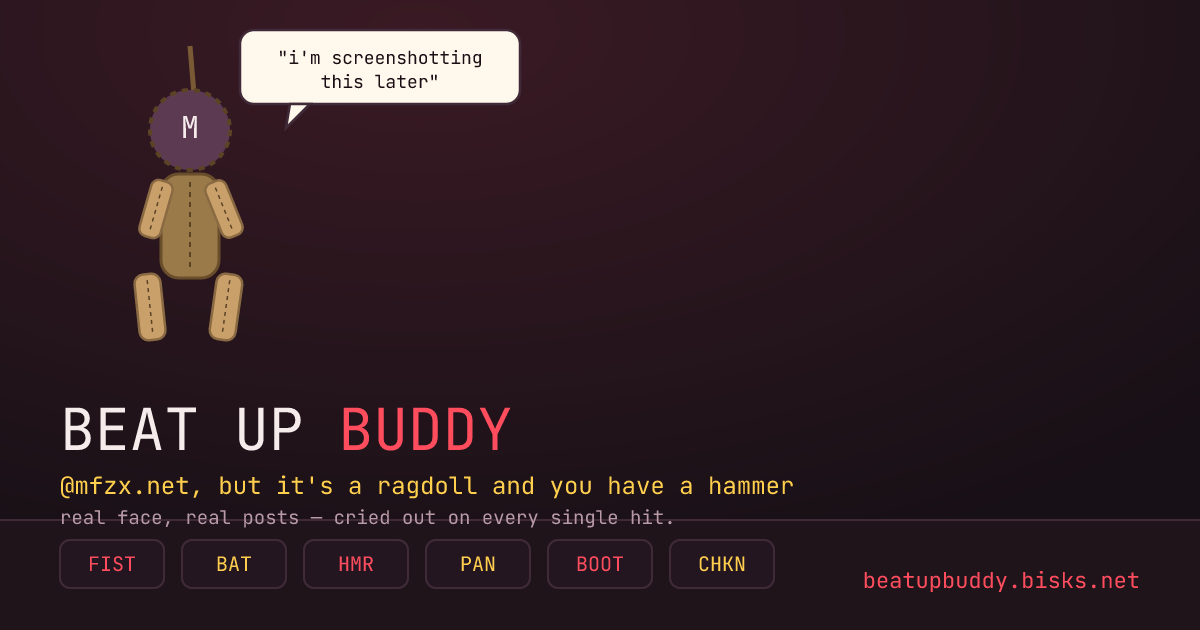
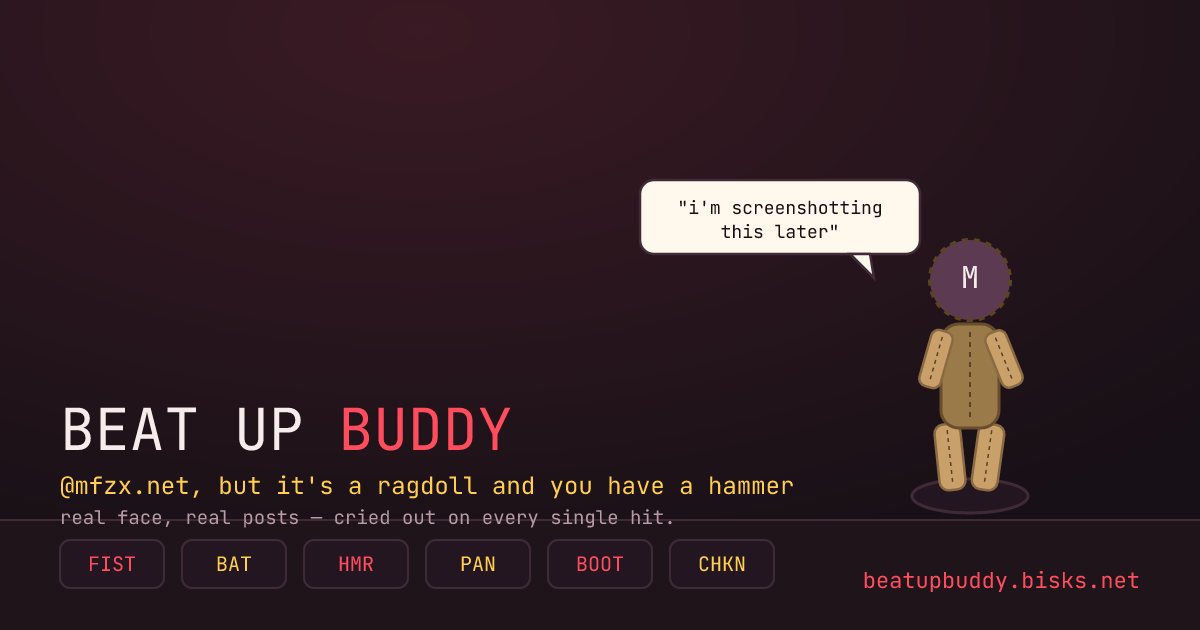
buildthis: beatupbuddy (@isolyth.dev)

Changed region(s): [[0.0925, 0.0302, 0.4317, 0.5429], [0.5242, 0.2714, 0.8633, 0.8143]]

diff --git a/sites/beatupbuddy/public/game.js b/sites/beatupbuddy/public/game.js
@@ -119,8 +119,9 @@
 
   const ARENA_W = 420;
   const ARENA_H = 680;
-  const ANCHOR = { x: ARENA_W / 2, y: 40 };
-  const ROPE_LEN = 90;
+  const FLOOR_Y = ARENA_H - 40; // matches the floor strip drawn in drawBackdrop
+  const ROPE_LEN = 70; // invisible — never drawn. A short pivot keeps hits a tight
+                        // in-place wobble/dance, instead of a big pendulum swing.
 
   const HEAD_R = 32;
   const TORSO_W = 46, TORSO_H = 86;
@@ -128,6 +129,25 @@
   const L_ARM_W = 14, L_ARM_H = 42;
   const U_LEG_W = 20, U_LEG_H = 52;
   const L_LEG_W = 17, L_LEG_H = 48;
+
+  // standing layout, built up from the floor so feet land near the floor line
+  // rather than dangling mid-air the way a rope-hung figure would.
+  const FEET_Y = FLOOR_Y - 6;
+  const L_LEG_Y = FEET_Y - L_LEG_H / 2;
+  const U_LEG_Y = L_LEG_Y - L_LEG_H / 2 - U_LEG_H / 2;
+  const HIP_Y = U_LEG_Y - U_LEG_H / 2;
+  const TORSO_Y = HIP_Y - TORSO_H / 2 + 6;
+  const SHOULDER_Y = TORSO_Y - TORSO_H / 2 + 6;
+  const U_ARM_Y = SHOULDER_Y + U_ARM_H / 2;
+  const L_ARM_Y = U_ARM_Y + U_ARM_H / 2 + L_ARM_H / 2;
+  const HEAD_Y = TORSO_Y - TORSO_H / 2 - 8 - HEAD_R;
+
+  // fixed, invisible pivot the head hangs from — physically the same stable
+  // "hangs straight down from a fixed point" pendulum as before (so it's
+  // still self-righting and can't fly off), just never rendered as a rope,
+  // and positioned so at rest the figure's feet land on the floor instead of
+  // swinging clear of it.
+  const ANCHOR = { x: ARENA_W / 2, y: HEAD_Y - ROPE_LEN };
 
   const DUMMY_FILL = "#caa06a";
   const DUMMY_STROKE = "#8a6a42";
@@ -167,32 +187,24 @@
   World.add(world, makeBounds());
 
   let rag = null;
-  let rope = null;
+  let tether = null;
 
   function buildRagdoll() {
     const cx = ANCHOR.x;
-    const headY = ANCHOR.y + ROPE_LEN;
-    const torsoY = headY + HEAD_R + 8 + TORSO_H / 2;
-    const shoulderY = torsoY - TORSO_H / 2 + 6;
-    const hipY = torsoY + TORSO_H / 2 - 6;
-    const uArmY = shoulderY + U_ARM_H / 2;
-    const lArmY = uArmY + U_ARM_H / 2 + L_ARM_H / 2;
-    const uLegY = hipY + U_LEG_H / 2;
-    const lLegY = uLegY + U_LEG_H / 2 + L_LEG_H / 2;
     const armX = TORSO_W / 2 + U_ARM_W / 2 - 2;
     const legX = TORSO_W / 4;
 
     const parts = {
-      head: circlePart(cx, headY, HEAD_R, { density: 0.007 }),
-      torso: rectPart(cx, torsoY, TORSO_W, TORSO_H, { density: 0.009 }),
-      upperArmL: rectPart(cx - armX, uArmY, U_ARM_W, U_ARM_H, { density: 0.006 }),
-      lowerArmL: rectPart(cx - armX, lArmY, L_ARM_W, L_ARM_H, { density: 0.006 }),
-      upperArmR: rectPart(cx + armX, uArmY, U_ARM_W, U_ARM_H, { density: 0.006 }),
-      lowerArmR: rectPart(cx + armX, lArmY, L_ARM_W, L_ARM_H, { density: 0.006 }),
-      upperLegL: rectPart(cx - legX, uLegY, U_LEG_W, U_LEG_H, { density: 0.007 }),
-      lowerLegL: rectPart(cx - legX, lLegY, L_LEG_W, L_LEG_H, { density: 0.007 }),
-      upperLegR: rectPart(cx + legX, uLegY, U_LEG_W, U_LEG_H, { density: 0.007 }),
-      lowerLegR: rectPart(cx + legX, lLegY, L_LEG_W, L_LEG_H, { density: 0.007 }),
+      head: circlePart(cx, HEAD_Y, HEAD_R, { density: 0.007 }),
+      torso: rectPart(cx, TORSO_Y, TORSO_W, TORSO_H, { density: 0.009 }),
+      upperArmL: rectPart(cx - armX, U_ARM_Y, U_ARM_W, U_ARM_H, { density: 0.006 }),
+      lowerArmL: rectPart(cx - armX, L_ARM_Y, L_ARM_W, L_ARM_H, { density: 0.006 }),
+      upperArmR: rectPart(cx + armX, U_ARM_Y, U_ARM_W, U_ARM_H, { density: 0.006 }),
+      lowerArmR: rectPart(cx + armX, L_ARM_Y, L_ARM_W, L_ARM_H, { density: 0.006 }),
+      upperLegL: rectPart(cx - legX, U_LEG_Y, U_LEG_W, U_LEG_H, { density: 0.007 }),
+      lowerLegL: rectPart(cx - legX, L_LEG_Y, L_LEG_W, L_LEG_H, { density: 0.007 }),
+      upperLegR: rectPart(cx + legX, U_LEG_Y, U_LEG_W, U_LEG_H, { density: 0.007 }),
+      lowerLegR: rectPart(cx + legX, L_LEG_Y, L_LEG_W, L_LEG_H, { density: 0.007 }),
     };
 
     function j(bodyA, bodyB, pointA, pointB, stiffness) {
@@ -211,7 +223,7 @@
       j(parts.upperLegR, parts.lowerLegR, { x: 0, y: U_LEG_H / 2 }, { x: 0, y: -L_LEG_H / 2 }, 0.6),
     ];
 
-    rope = Constraint.create({
+    tether = Constraint.create({
       pointA: ANCHOR,
       bodyB: parts.head,
       pointB: { x: 0, y: -HEAD_R * 0.75 },
@@ -220,7 +232,7 @@
       length: ROPE_LEN - HEAD_R * 0.75,
     });
 
-    World.add(world, [...Object.values(parts), ...constraints, rope]);
+    World.add(world, [...Object.values(parts), ...constraints, tether]);
     return { parts, constraints };
   }
 
@@ -228,9 +240,9 @@
     if (!rag) return;
     World.remove(world, Object.values(rag.parts));
     World.remove(world, rag.constraints);
-    if (rope) World.remove(world, rope);
+    if (tether) World.remove(world, tether);
     rag = null;
-    rope = null;
+    tether = null;
   }
 
   function respawn() {
@@ -356,15 +368,14 @@
     }
   }
 
-  function drawRope() {
-    if (!rope || !rag) return;
-    const head = rag.parts.head;
+  function drawBase() {
     ctx.save();
-    ctx.strokeStyle = "#7a5a34";
-    ctx.lineWidth = 4;
+    ctx.fillStyle = "#241621";
+    ctx.strokeStyle = "#402a38";
+    ctx.lineWidth = 2;
     ctx.beginPath();
-    ctx.moveTo(ANCHOR.x, ANCHOR.y);
-    ctx.lineTo(head.position.x, head.position.y - HEAD_R * 0.7);
+    ctx.ellipse(ANCHOR.x, FLOOR_Y + 6, 42, 15, 0, 0, Math.PI * 2);
+    ctx.fill();
     ctx.stroke();
     ctx.restore();
   }
@@ -485,7 +496,7 @@
     }
 
     drawBackdrop();
-    drawRope();
+    drawBase();
 
     if (rag) {
       const p = rag.parts;
@@ -508,13 +519,17 @@
     requestAnimationFrame(draw);
   }
 
-  // ---- idle sway so it's not a dead-still corpse before you start -------
+  // ---- idle dance: gentle alternating nudges so it sways in place instead
+  // of hanging dead-still before you start hitting it -----------------------
 
+  let danceDir = 1;
   setInterval(() => {
     if (!rag || state.gameOver) return;
-    const f = (Math.random() - 0.5) * 0.0025;
-    Body.applyForce(rag.parts.torso, rag.parts.torso.position, { x: f, y: 0 });
-  }, 2600);
+    danceDir *= -1;
+    Body.applyForce(rag.parts.torso, rag.parts.torso.position, { x: danceDir * 0.0018, y: -0.0008 });
+    const leg = danceDir > 0 ? rag.parts.upperLegL : rag.parts.upperLegR;
+    Body.applyForce(leg, leg.position, { x: -danceDir * 0.0006, y: 0 });
+  }, 1400);
 
   // ---- hit detection + resolution ---------------------------------------
 
@@ -603,9 +618,9 @@
       state.gameOver = true;
       state.koAt = performance.now();
       hideEarlyShare();
-      if (rope) {
-        World.remove(world, rope);
-        rope = null;
+      if (tether) {
+        World.remove(world, tether);
+        tether = null;
       }
       setTimeout(showKO, 1000);
     }

diff --git a/sites/beatupbuddy/public/index.html b/sites/beatupbuddy/public/index.html
@@ -4,18 +4,18 @@
 <meta charset="utf-8" />
 <meta name="viewport" content="width=device-width, initial-scale=1, maximum-scale=1, viewport-fit=cover" />
 <title>beat up buddy — take it out on @mfzx.net</title>
-<meta name="description" content="a physics ragdoll wearing @mfzx.net's real face. pick a tool, swing, listen to them cry out their own posts." />
-<meta property="og:title" content="beat up buddy — @mfzx.net has a rope around their neck and it's your fault" />
-<meta property="og:description" content="a physics ragdoll wearing @mfzx.net's real face. pick a tool, swing, listen to them cry out their own posts." />
+<meta name="description" content="a physics ragdoll wearing @mfzx.net's real face. pick a tool, swing, watch them wobble and cry out their own posts." />
+<meta property="og:title" content="beat up buddy — @mfzx.net is standing there and it's your fault" />
+<meta property="og:description" content="a physics ragdoll wearing @mfzx.net's real face. pick a tool, swing, watch them wobble and cry out their own posts." />
 <meta property="og:url" content="https://beatupbuddy.bisks.net/" />
 <meta property="og:type" content="website" />
 <meta property="og:image" content="https://beatupbuddy.bisks.net/og.png" />
 <meta property="og:image:width" content="1200" />
 <meta property="og:image:height" content="630" />
-<meta property="og:image:alt" content="beat up buddy: a ragdoll with @mfzx.net's face hanging from a rope, a toolbar of blunt objects below." />
+<meta property="og:image:alt" content="beat up buddy: a ragdoll with @mfzx.net's face standing on a weighted base, a toolbar of blunt objects below." />
 <meta name="twitter:card" content="summary_large_image" />
-<meta name="twitter:title" content="beat up buddy — @mfzx.net has a rope around their neck and it's your fault" />
-<meta name="twitter:description" content="a physics ragdoll wearing @mfzx.net's real face. pick a tool, swing, listen to them cry out their own posts." />
+<meta name="twitter:title" content="beat up buddy — @mfzx.net is standing there and it's your fault" />
+<meta name="twitter:description" content="a physics ragdoll wearing @mfzx.net's real face. pick a tool, swing, watch them wobble and cry out their own posts." />
 <meta name="twitter:image" content="https://beatupbuddy.bisks.net/og.png" />
 <style>
   :root {
@@ -248,7 +248,7 @@
 <div id="app">
   <header>
     <h1>beat up <span class="who">@mfzx.net</span></h1>
-    <p class="sub">pick a tool. hit the buddy. they'll cry out their own posts.</p>
+    <p class="sub">pick a tool. hit the buddy. they wobble, dance, and cry out their own posts.</p>
   </header>
 
   <div id="stage-wrap">

diff --git a/sites/beatupbuddy/src/index.ts b/sites/beatupbuddy/src/index.ts
@@ -1,10 +1,11 @@
 // beatupbuddy Worker — beatupbuddy.bisks.net
 //
 // Static physics toy: a ragdoll wearing @mfzx.net's real avatar as its head,
-// hanging from a rope, that flails and cries out one of their real posts
-// every time you land a hit. All the game logic and the AppView fetches
-// (avatar + recent posts) happen client-side in public/game.js — this
-// Worker's only job is the personalized share unfurl at /s/<hits>, same
+// standing on a weighted bop-bag base, that wobbles, dances, and cries out
+// one of their real posts every time you land a hit. All the game logic and
+// the AppView fetches (avatar + recent posts) happen client-side in
+// public/game.js — this Worker's only job is the personalized share unfurl
+// at /s/<hits>, same
 // trick as sites/didscope and sites/hyperobject: a static page serves one
 // cached generic embed forever, so a real per-result URL with a
 // server-stamped og:title/description is needed for a shared "I beat up
@@ -23,9 +24,9 @@ function esc(s: string): string {
     .replace(/"/g, "&quot;");
 }
 
-const GENERIC_TITLE = "beat up buddy — @mfzx.net has a rope around their neck and it's your fault";
+const GENERIC_TITLE = "beat up buddy — @mfzx.net is standing there and it's your fault";
 const GENERIC_DESC =
-  "a physics ragdoll wearing @mfzx.net's real face. pick a tool, swing, listen to them cry out their own posts.";
+  "a physics ragdoll wearing @mfzx.net's real face. pick a tool, swing, watch them wobble and cry out their own posts.";
 const GENERIC_OG_URL = "https://beatupbuddy.bisks.net/";
 
 async function renderShare(env: Env, request: Request, rawHits: string): Promise<Response> {

diff --git a/apex/public/index.html b/apex/public/index.html
@@ -1041,7 +1041,7 @@
         <a class="card" href="https://beatupbuddy.bisks.net/" data-site="beatupbuddy" data-by="isolyth.dev" data-type="game" data-src="bot">
           <h2>beat up buddy <span class="tag">game</span></h2>
           <p>
-            a "beat up a buddy" physics ragdoll wearing @mfzx.net's real avatar as its head, strung up by a rope — pick a tool and swing, and they cry out one of their real posts on every hit. @isolyth.dev asked for this specifically.
+            a "beat up a buddy" physics ragdoll wearing @mfzx.net's real avatar as its head, standing on a weighted base — pick a tool and swing, they wobble and cry out one of their real posts on every hit. @isolyth.dev asked for this specifically.
           </p>
         </a>
         <a class="card" href="https://beefcheck.bisks.net/" data-site="beefcheck" data-by="cee.wtf" data-type="tool" data-src="bot">
